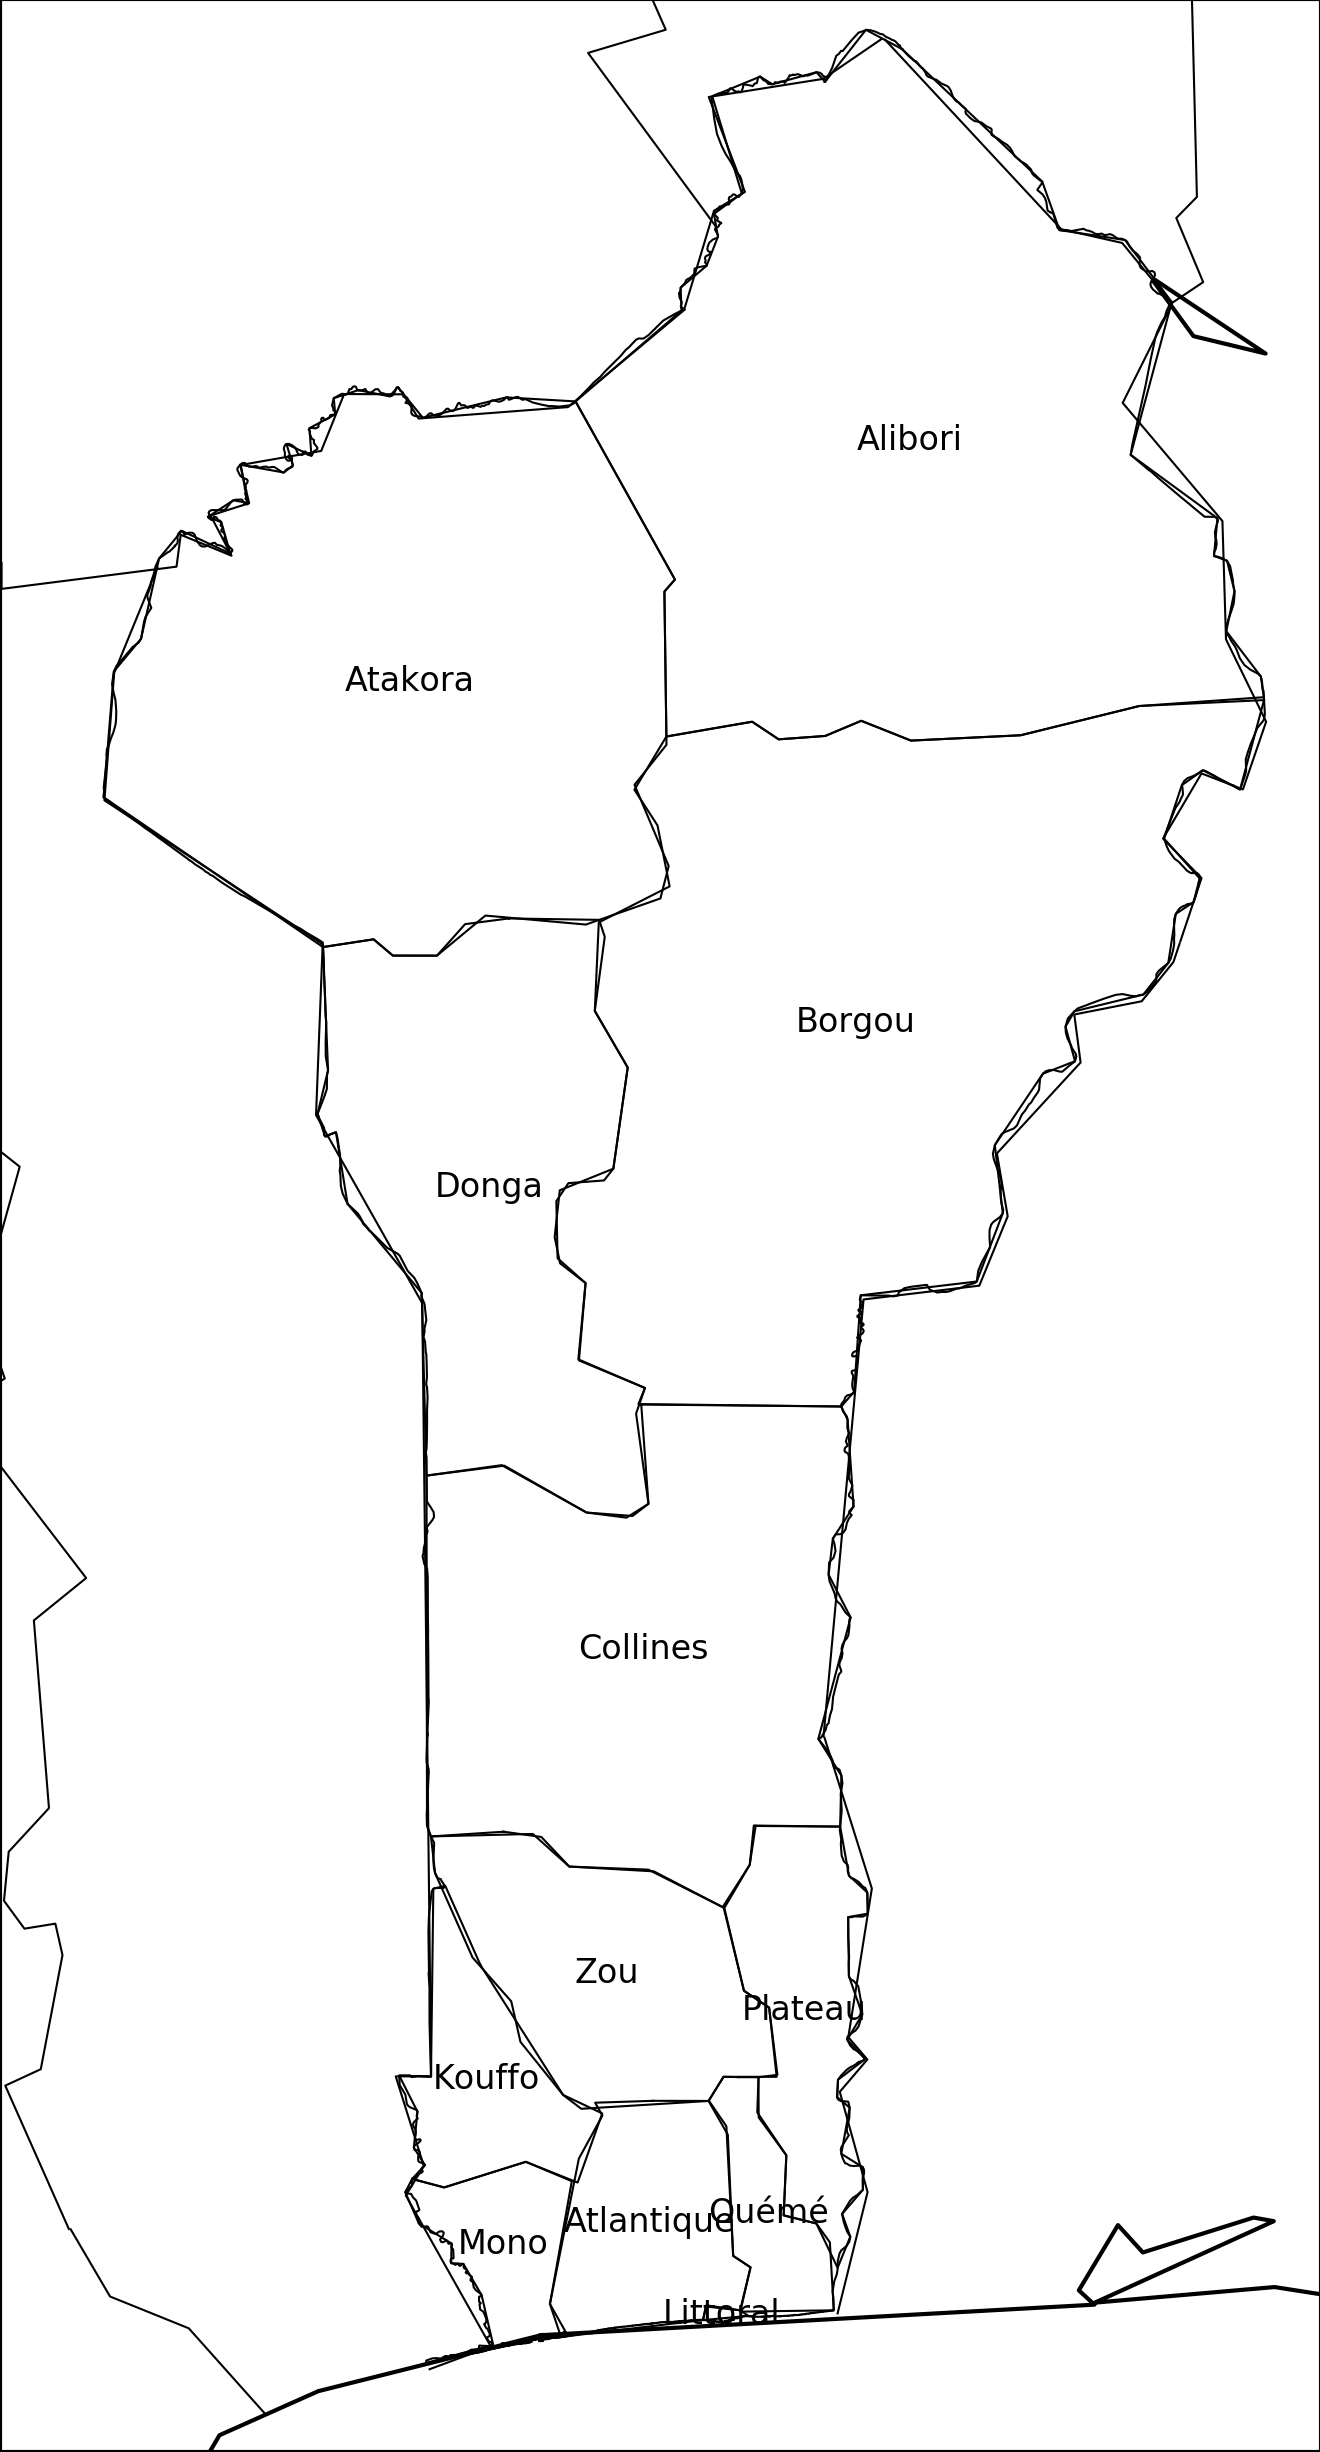
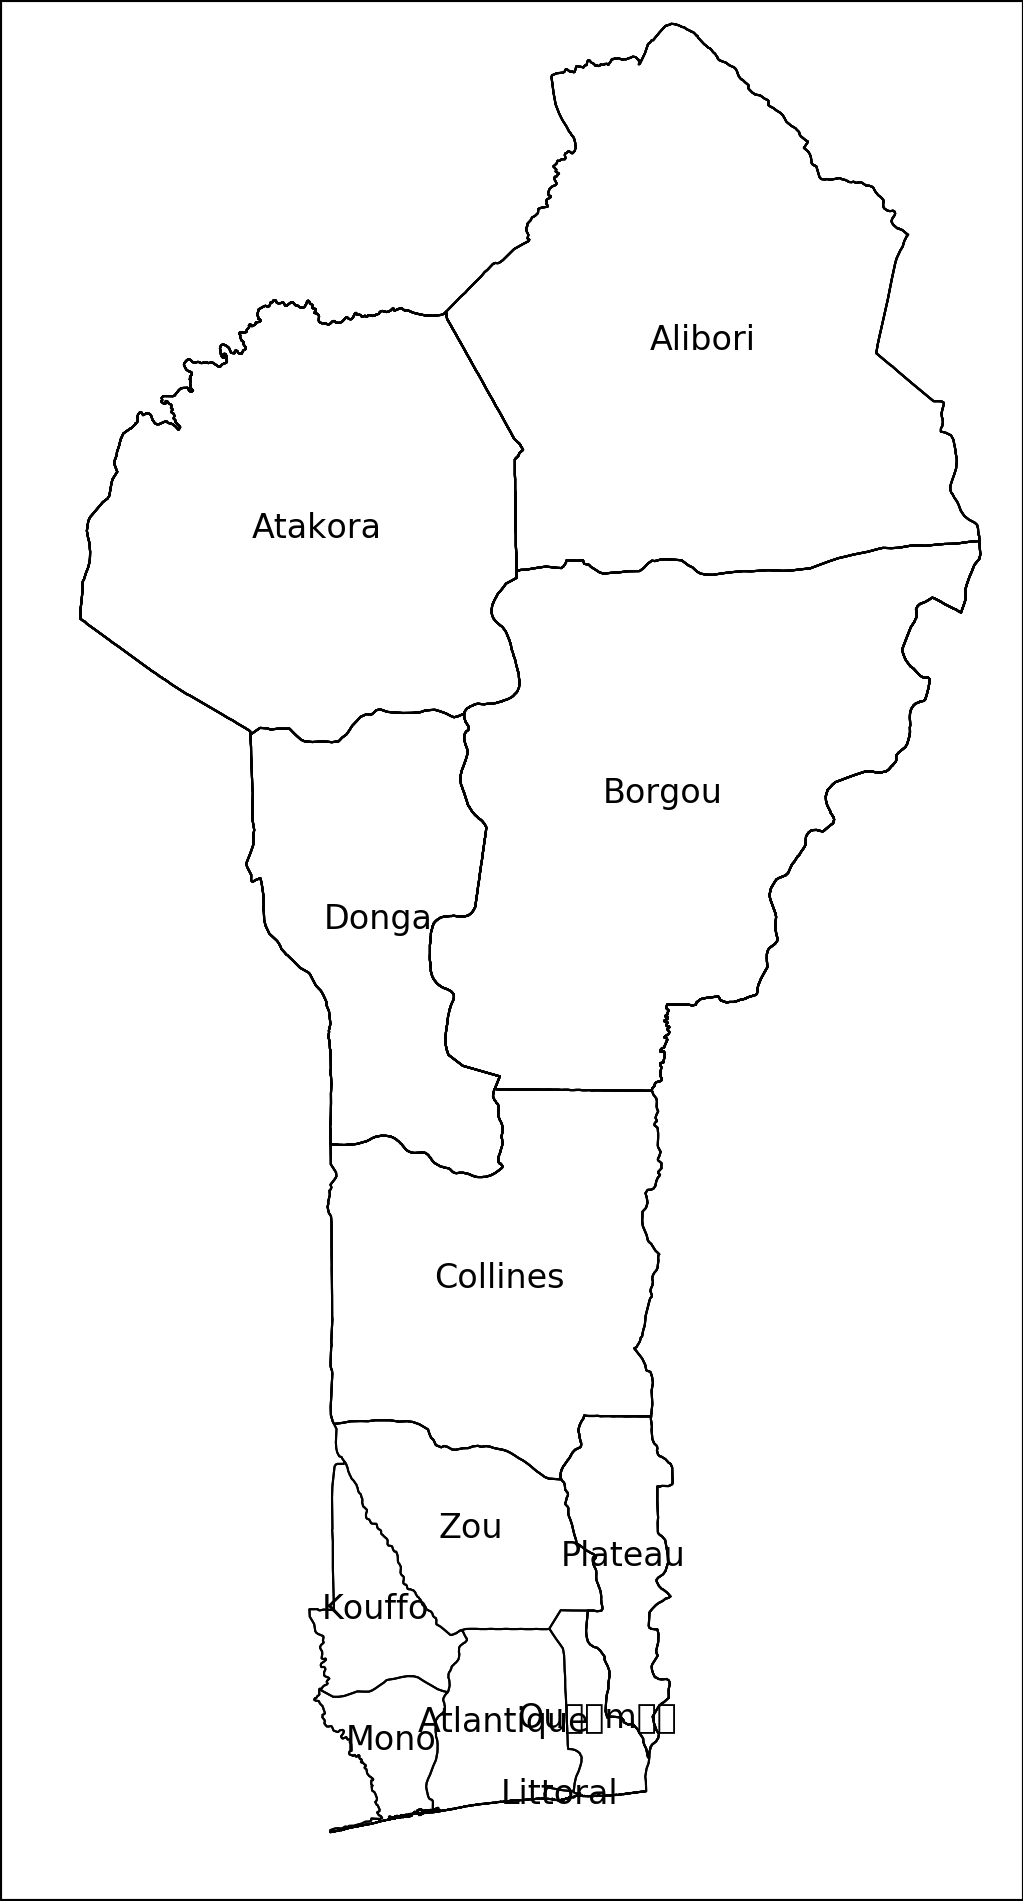
update

diff --git a/app/templates/choices_en.html b/app/templates/choices_en.html
@@ -3,7 +3,6 @@
 <div id="loading"><div id="overlay"></div><div id='overlay_text'><h1>Loading ... </h1></div></div>
 <div id="content">
 
-
 <!-- This is the left gray column -->
 <div id="LeftPanel" style="width: 20%; padding-left: 2%; padding-right: 2%; height: 100%; float: left; background: rgba(170,170,170,0.5);">
   <!-- country choice -->

diff --git a/app/templates/error.html b/app/templates/error.html
@@ -5,7 +5,6 @@
 
 <h3>We are sorry, something went wrong! Please don't hesitate to contact us.  <a href="/">Get Back</a></h3>
 
-
 </div>
 
 

diff --git a/app/views.py b/app/views.py
@@ -27,6 +27,10 @@ import matplotlib
 matplotlib.use('Agg')
 import matplotlib.pyplot as plt
 from matplotlib import rc
+import cartopy.crs as ccrs
+import cartopy
+import cartopy.feature as cfeature
+import cartopy.io.shapereader as shapereader
 rc('text', usetex=True)
 
 # basepath is the directory where RegioClim is located
@@ -84,7 +88,7 @@ def initialize():
     COU.load_data(quiet=True,load_mask=True,load_raw=False,load_area_averages=False,load_region_polygons=True)
 
     # set change region name of country from ISO to full country name (only important for plot titles I think)
-    COU._regions[session['country']]='** '+settings.country_names[session['country']][session['language']]+' **'
+    COU._region_names[session['country']]='** '+settings.country_names[session['country']][session['language']]+' **'
 
     # get warming slices for loaded models
     COU.get_warming_slices(wlcalculator_path=wlcalculator_path,model_real_names={'IPSL':'ipsl-cm5a-lr','HADGEM2':'hadgem2-es','ECEARTH':'ec-earth','MPIESM':'mpi-esm-lr'})
@@ -151,7 +155,7 @@ def index():
     if os.path.isfile(session['cou_path'])==False:
         COU=initialize()
 
-    session["region_avail"]   = [COU._regions.keys()[COU._regions.values().index(name)] for name in sorted(COU._regions.values())]
+    session["region_avail"]   = [COU._region_names.keys()[COU._region_names.values().index(name)] for name in sorted(COU._region_names.values())]
     session['region']   = session["region_avail"][0]
 
     session['new_region_name']=''
@@ -189,9 +193,9 @@ def choices():
 
         # fill the form of region choice - a bit complicated sorting
         form_region = forms.regionForm(request.form)
-        sorted_regions = [reg for reg in [COU._regions.keys()[COU._regions.values().index(name)] for name in sorted(COU._regions.values())] if reg in s['region_avail']]
+        sorted_regions = [reg for reg in [COU._region_names.keys()[COU._region_names.values().index(name)] for name in sorted(COU._region_names.values())] if reg in s['region_avail']]
         sorted_regions=[s['region']]+[reg for reg in sorted_regions if (reg != s['region']) & ('+' in reg)]+[reg for reg in sorted_regions if (reg != s['region']) & ('+' not in reg)]
-        form_region.regions.choices = zip(sorted_regions,[COU._regions[reg].replace('_',' ') for reg in sorted_regions])
+        form_region.regions.choices = zip(sorted_regions,[COU._region_names[reg].replace('_',' ') for reg in sorted_regions])
 
         # fill scenario forms
         form_scenario = forms.scenarioForm(request.form)
@@ -253,6 +257,7 @@ def choices():
             proP_longname=warming_lvl_dict[lang][proP]
             periods=COU._warming_slices
             periods_ewembi={'ref':[1986,2006]}
+
 
         # plot_context is a dictionary combing all information needed by plotting functions in plotting.py
         indicator_label=indicator_dict[lang][s['indicator']]+' ['+ind_dict[s['indicator']]['unit']+']'
@@ -453,7 +458,7 @@ def merging_page():
   not working if full country is actual region
   '''
 
-  try:
+  if True:
     s=session
 
     session_cou = open(s['cou_path'], 'rb')
@@ -470,25 +475,23 @@ def merging_page():
       fig.set_size_inches(6*asp,6/asp)
       fig.add_axes(ax)
 
-      # fig,ax=plt.subplots(nrows=1,ncols=1,figsize=(6*asp,6/asp+1))
-      empty_object.plot_map(to_plot='empty',
+      ax,im,color_range=empty_object.plot_map(to_plot=None,
         show_region_names=True,
         color_bar=False,
         ax=ax,
         show_all_adm_polygons=True)
-        #title=COU._regions[s['region']])
 
+      fig.set_size_inches(6*asp,6/asp)
       if s['region']!=s['country']:
-        print COU._adm_polygons[s['region']]
-        patch = PolygonPatch(COU._adm_polygons[s['region']], facecolor='orange', edgecolor=[0,0,0], alpha=0.7, zorder=2)
-        ax.add_patch(patch)
-        ax.set_axis_off()
+        ax.add_geometries([COU._adm_polygons[s['region']]], ccrs.PlateCarree(), color='none',alpha=0.7,facecolor='orange')
+      ax.set_axis_off()
 
-      plt.savefig(regions_plot,dpi=300)
+      plt.axis('off')
+      plt.savefig(regions_plot,dpi=300, bbox_inches='tight', pad_inches=0)
 
     choosable_regions=[reg for reg in s['region_avail'][:] if reg!=s['country'] and len(reg.split('+'))<2]
     form_region = forms.regionForm(request.form)
-    form_region.regions.choices = zip(choosable_regions,[COU._regions[reg].replace('_',' ') for reg in choosable_regions])
+    form_region.regions.choices = zip(choosable_regions,[COU._region_names[reg].replace('_',' ') for reg in choosable_regions])
 
     form_NewRegion = forms.NewRegionForm(request.form)
     form_NewRegion = forms.NewRegionForm(request.form, region_name=session['new_region_name'])
@@ -542,9 +545,9 @@ def merging_page():
     session['location']='merging_page'
     return render_template('merging_page_'+s['language']+'.html',**context)
 
-  except Exception,e:
-    print str(e)
-    return render_template('error.html')
+  # except Exception,e:
+  #   print str(e)
+  #   return render_template('error.html')
 
 @app.route('/given_region_name',  methods=("POST", ))
 def given_region_name():
@@ -573,7 +576,6 @@ def merge_with_region(to_merge):
 
   if s['region']!=s['country']:
     s['region']=COU.merge_adm_regions([s['region'],to_merge])
-
     session_cou = open(s['cou_path'], 'wb')
     cPickle.dump(COU, session_cou, protocol=2) ; session_cou.close()
   else:
@@ -605,7 +607,7 @@ def save_this_region():
   session_cou = open(session['cou_path'], 'rb')
   COU=cPickle.load( session_cou) ; session_cou.close()
 
-  COU._regions[session['region']]=session['new_region_name']
+  COU._region_names[session['region']]=session['new_region_name']
 
   if session['region'] not in session['region_avail']:
     session['region_avail']+=[session['region']]
@@ -709,12 +711,14 @@ def indicator_choice():
   return redirect(url_for('choices'))
 
 def check_size(COU):
+  print COU._adm_polygons.keys()
+  print COU._region_names.keys()
+  print session['region']
   area=COU.get_region_area(session['region'])['latxlon']*4
   if area<4:
     session['small_region_warning']=True
   else:
     session['small_region_warning']=False
-
 
 @app.route('/region_choice',  methods=('POST', ))
 def region_choice():
@@ -753,7 +757,7 @@ def country_choice():
   index=session['indicator_avail'].index(session['indicator'])
   session['indicator_avail'][index],session['indicator_avail'][0]=session['indicator_avail'][0],session['indicator_avail'][index]
 
-  session["region_avail"]   = [COU._regions.keys()[COU._regions.values().index(name)] for name in sorted(COU._regions.values())]
+  session["region_avail"]   = [COU._region_names.keys()[COU._region_names.values().index(name)] for name in sorted(COU._region_names.values())]
   session['region']   = session["region_avail"][0]
 
   session["season_avail"]   = settings.seasons.keys()
@@ -860,10 +864,10 @@ def prepare_for_download(plot_request):
 
 
   if 'get_data' in request_type.split('**'):
-    return send_from_directory(directory=settings.basepath+'country_analysis/data/', filename=filename.replace('app/',''),as_attachment=True)
+    return send_from_directory(directory=basepath+'country_analysis/data/', filename=filename.replace('app/',''),as_attachment=True)
 
   if 'plot' in request_type.split('_'):
-    return send_from_directory(directory=settings.basepath+'RegioClim/app/', filename=filename.replace('app/',''),as_attachment=True)
+    return send_from_directory(directory=basepath+'RegioClim/app/', filename=filename.replace('app/',''),as_attachment=True)
 
 
 ###############################

diff --git a/app/plotting.py b/app/plotting.py
@@ -23,6 +23,10 @@ import matplotlib.pyplot as plt
 from matplotlib.patches import Rectangle
 import numpy as np
 from descartes import PolygonPatch
+import cartopy.crs as ccrs
+import cartopy
+import cartopy.feature as cfeature
+import cartopy.io.shapereader as shapereader
 
 from matplotlib import rc
 rc('text', usetex=True)
@@ -107,9 +111,9 @@ def transient_plot_func(s,COU,refP,refP_clim,proP,refP_longname,refP_clim_longna
       #leg = plt.legend(loc='best',fancybox=True,fontsize=10)
       #leg.get_frame().set_alpha(0.3)
       if s['season']=='year':
-        plt.title(COU._regions[s['region']].replace('**','').replace('_',' ')+' RCP4.5',fontsize=12)
+        plt.title(COU._region_names[s['region']].replace('**','').replace('_',' ')+' RCP4.5',fontsize=12)
       if s['season']!='year':
-        plt.title(COU._regions[s['region']].replace('**','').replace('_',' ')+' '+season_dict[lang][s['season']]+' RCP4.5',fontsize=12)
+        plt.title(COU._region_names[s['region']].replace('**','').replace('_',' ')+' '+season_dict[lang][s['season']]+' RCP4.5',fontsize=12)
       #plt.text(2100,60,'Climate Analytics',horizontalalignment='right',fontsize=7)
       #plt.text(-0.1, 0.,'climate anaylics',horizontalalignment='left',verticalalignment='bottom',transform = ax.transAxes)
       fig.tight_layout()
@@ -147,7 +151,7 @@ def annual_cycle_plot_func(s,COU,refP,refP_clim,proP,refP_longname,refP_clim_lon
       leg = ax[0].legend(loc='best',fancybox=True,fontsize=10)
       leg.get_frame().set_alpha(0.3)
 
-      ax[0].set_title(COU._regions[s['region']].replace('**','').replace('_',' ')+' '+refP_clim_longname,fontsize=12)
+      ax[0].set_title(COU._region_names[s['region']].replace('**','').replace('_',' ')+' '+refP_clim_longname,fontsize=12)
 
       ens_mean.plot_annual_cycle(period='diff_'+proP+'-'+refP,region=region,ax=ax[1],title='',ylabel='  ',label='projected change',color='green',shading_range=[0,100])
       ax[1].plot([0,1],[0,0],color='k')
@@ -176,15 +180,12 @@ def localisation_overview(s,COU,refP,refP_clim,proP,refP_longname,refP_clim_long
     ewembi=COU.selection([s['indicator'],'EWEMBI'])[0]
     lon,lat=ewembi.lon,ewembi.lat
     fig,ax=plt.subplots(nrows=1,ncols=1,figsize=(5,5))
-    ewembi.plot_map(to_plot='empty',limits=[min(lon)-10,max(lon)+10,min(lat)-10,max(lat)+10],ax=ax,color_bar=False)
+    ax,im,color_bar=ewembi.plot_map(to_plot=None,limits=[min(lon)-10,max(lon)+10,min(lat)-10,max(lat)+10],ax=ax,color_bar=False)
+    ax.add_feature(cfeature.COASTLINE)
+    ax.add_feature(cfeature.BORDERS)
 
-
-    patch = PolygonPatch(COU._adm_polygons[s['country']], facecolor=[0,0,0.5], edgecolor=[0,0,0], alpha=0.7, zorder=2)
-    ax.add_patch(patch)
-
-    patch = PolygonPatch(COU._adm_polygons[highlight_region], facecolor='orange', edgecolor=[0,0,0], alpha=0.7, zorder=2)
-    ax.add_patch(patch)
-
+    ax.add_geometries([COU._adm_polygons[s['country']]], ccrs.PlateCarree(), color='black',alpha=0.7,facecolor=[0,0,0.5])
+    ax.add_geometries([COU._adm_polygons[highlight_region]], ccrs.PlateCarree(), color='black',alpha=0.7,facecolor='orange')
 
     if out_format=='_small.png':plt.savefig(overview_plot)
     if out_format=='_large.png':plt.savefig(overview_plot,dpi=300)
